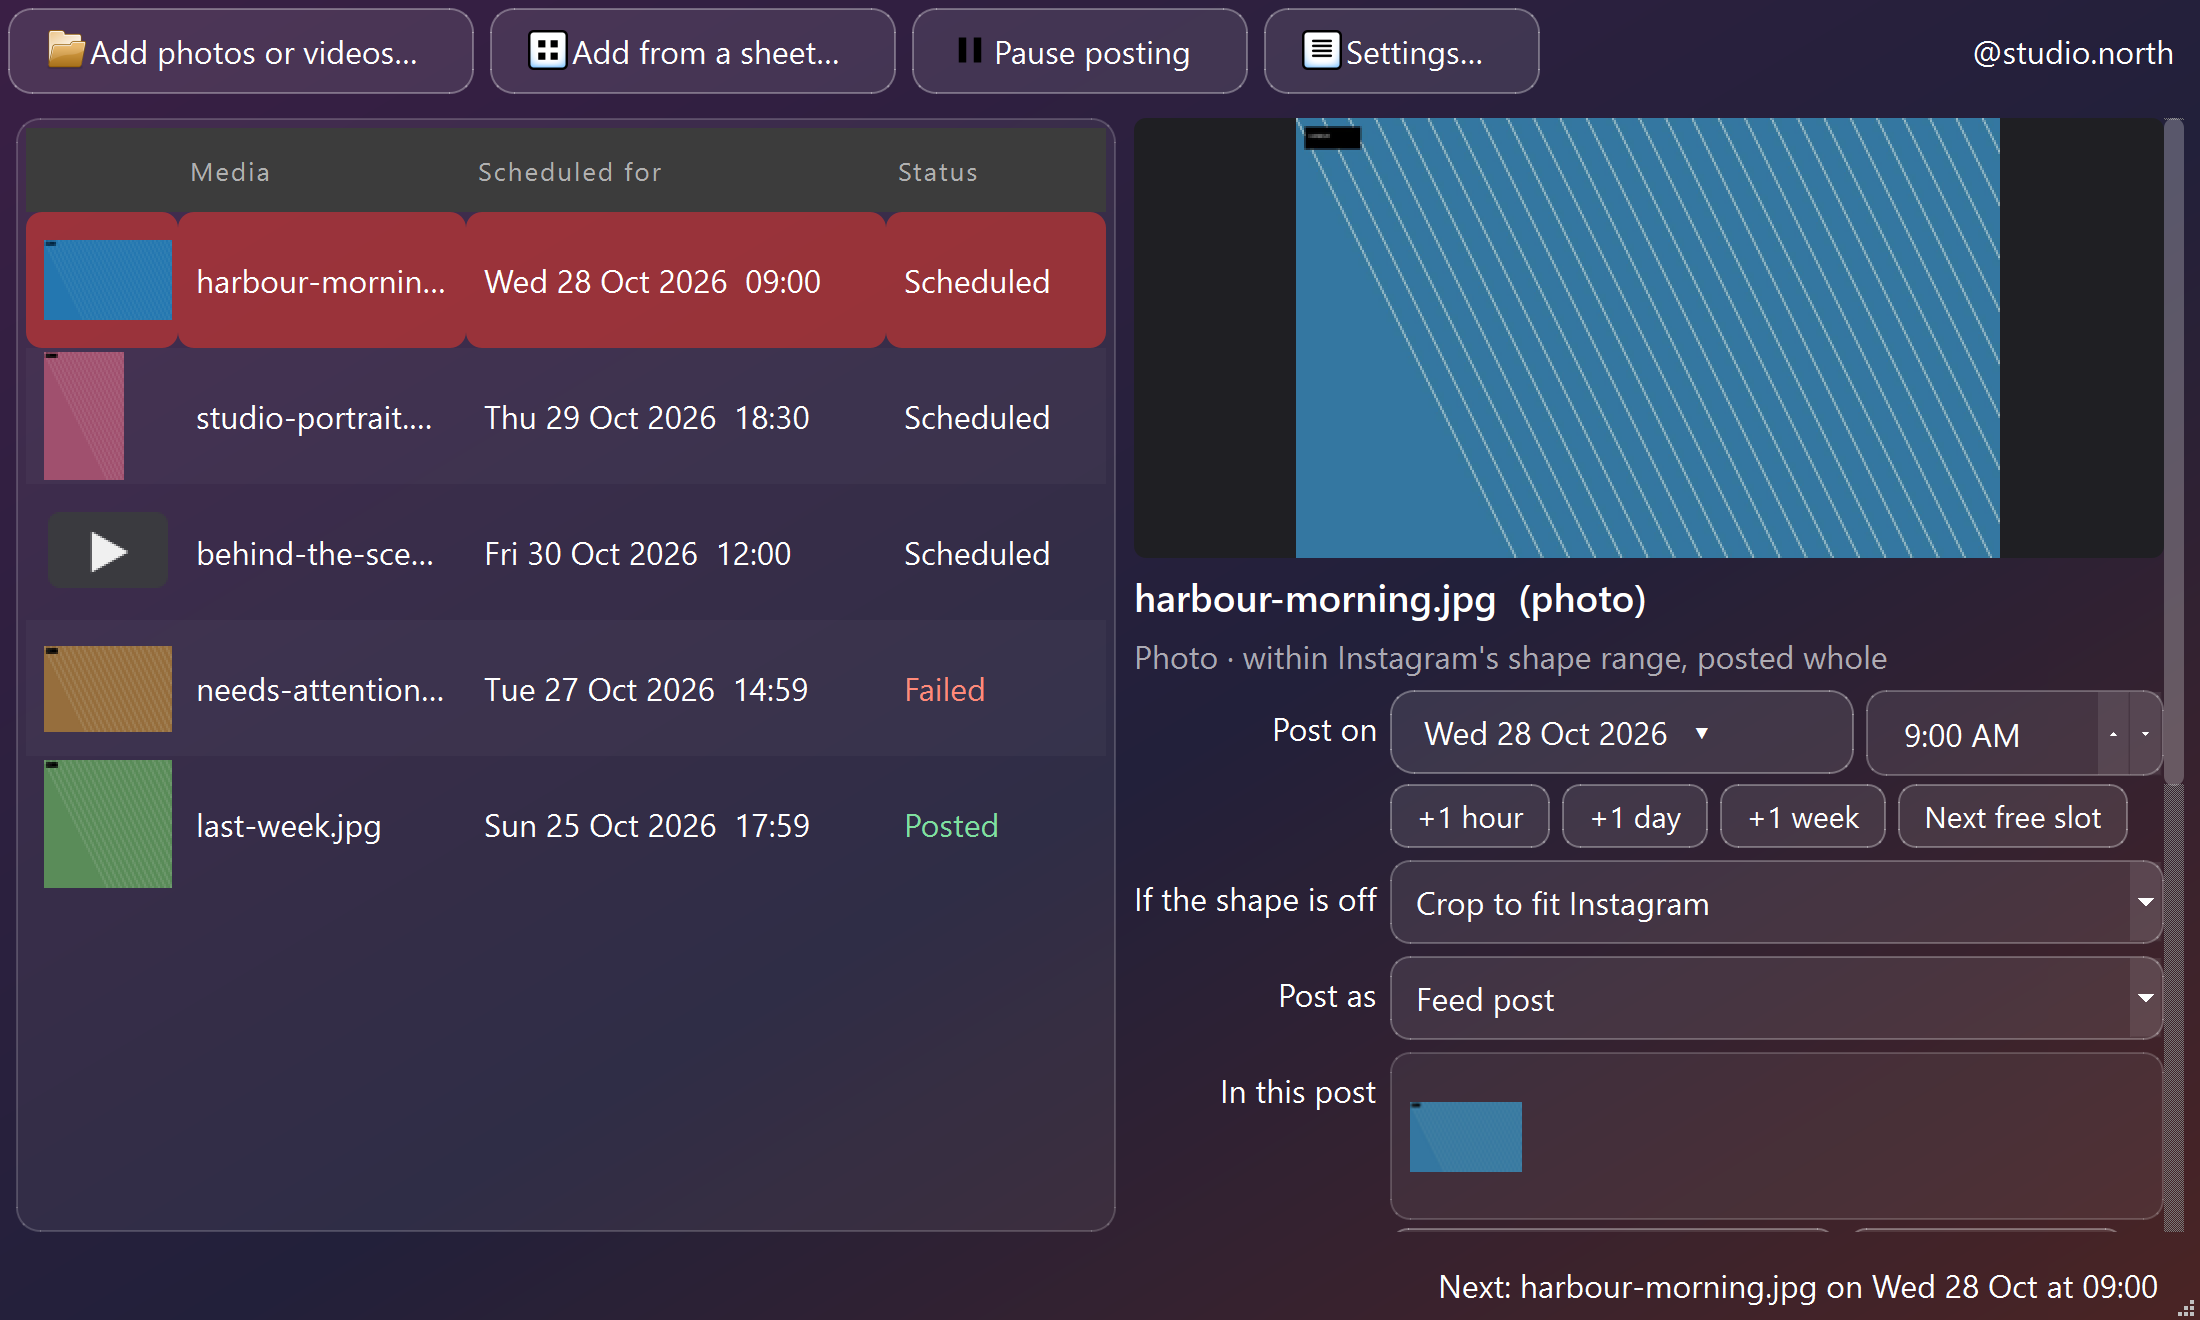
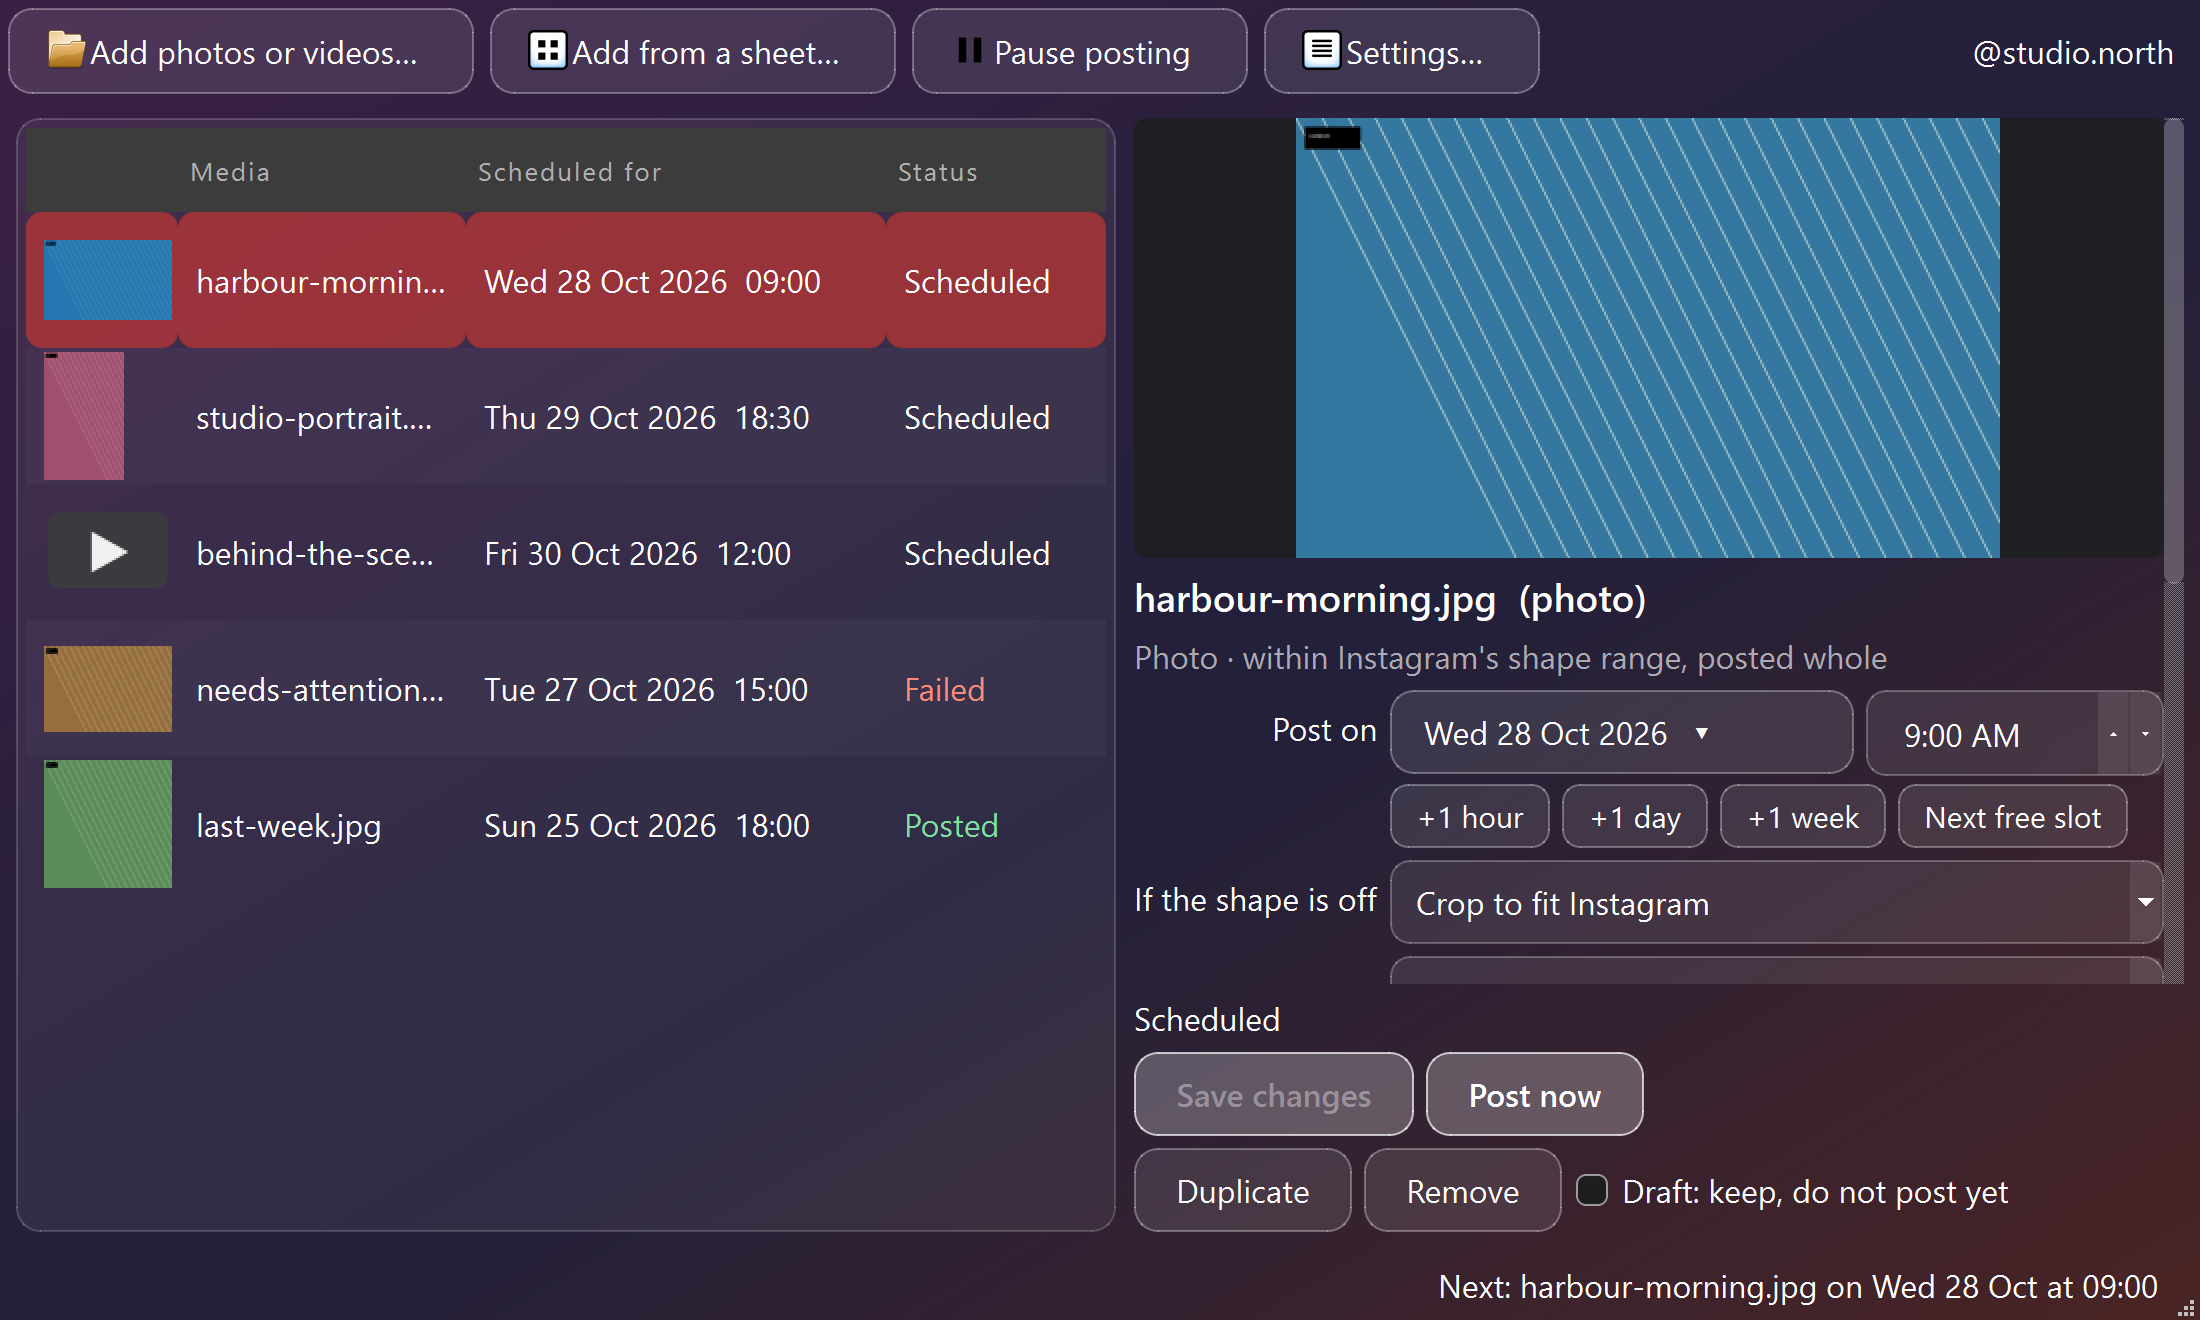
Keep the status line and buttons below the scrolling details pane

diff --git a/app.py b/app.py
@@ -903,8 +903,10 @@ class MainWindow(QMainWindow):
         self.cover_spin = QDoubleSpinBox(); self.cover_spin.setObjectName('cover'); self.cover_spin.setRange(0, 900); self.cover_spin.setDecimals(1); self.cover_spin.setSuffix(' s')
         self.cover_spin.setToolTip('Which moment of the video becomes its cover picture'); self.cover_spin.valueChanged.connect(self.mark_dirty)
         form.addRow('Cover at', self.cover_spin); self.cover_label = form.labelForField(self.cover_spin)
-        self.status_label = QLabel(''); self.status_label.setWordWrap(True); self.status_label.setTextInteractionFlags(Qt.TextSelectableByMouse); dl.addWidget(self.status_label)
-        buttons = QHBoxLayout(); dl.addLayout(buttons)
+        # The status line and the buttons stay visible below the scrolling form
+        self.actions = QWidget(); self.actions.setObjectName('actions'); al = QVBoxLayout(self.actions); al.setContentsMargins(4, 6, 0, 0); al.setSpacing(6)
+        self.status_label = QLabel(''); self.status_label.setWordWrap(True); self.status_label.setTextInteractionFlags(Qt.TextSelectableByMouse); al.addWidget(self.status_label)
+        buttons = QHBoxLayout(); al.addLayout(buttons)
         self.save_button = QPushButton('Save changes'); self.save_button.setObjectName('save'); self.save_button.setShortcut(QKeySequence.Save); self.save_button.clicked.connect(self.save_current)
         self.post_now_button = QPushButton('Post now'); self.post_now_button.setObjectName('post_now'); self.post_now_button.clicked.connect(self.post_now)
         self.open_button = QPushButton('Open on Instagram'); self.open_button.clicked.connect(self.open_permalink)
@@ -912,14 +914,15 @@ class MainWindow(QMainWindow):
         self.remove_button = QPushButton('Remove'); self.remove_button.setObjectName('remove'); self.remove_button.clicked.connect(self.remove_selected)
         for b in (self.save_button, self.post_now_button, self.open_button): buttons.addWidget(b)
         buttons.addStretch(1)
-        more = QHBoxLayout(); dl.addLayout(more)
+        more = QHBoxLayout(); al.addLayout(more)
         self.draft_box = QCheckBox('Draft: keep, do not post yet'); self.draft_box.setObjectName('draft'); self.draft_box.toggled.connect(self.mark_dirty)
         for b in (self.duplicate_button, self.remove_button): more.addWidget(b)
         more.addWidget(self.draft_box); more.addStretch(1)
-        self.detail.setMinimumWidth(380); left.setMinimumWidth(360)
+        dl.addStretch(1); self.detail.setMinimumWidth(380); left.setMinimumWidth(360)
         scroll = QScrollArea(); scroll.setWidgetResizable(True); scroll.setFrameShape(QFrame.NoFrame); scroll.setWidget(self.detail); scroll.setObjectName('detail_scroll')
         scroll.setHorizontalScrollBarPolicy(Qt.ScrollBarAlwaysOff); scroll.setMinimumWidth(400)
-        split.addWidget(scroll); split.setStretchFactor(0, 1); split.setStretchFactor(1, 1); split.setSizes([540, 520])
+        right = QWidget(); rl = QVBoxLayout(right); rl.setContentsMargins(0, 0, 0, 0); rl.setSpacing(0); rl.addWidget(scroll, 1); rl.addWidget(self.actions)
+        split.addWidget(right); split.setStretchFactor(0, 1); split.setStretchFactor(1, 1); split.setSizes([540, 520])
         self.setCentralWidget(central)
 
         self.progress = QProgressBar(); self.progress.setRange(0, 100); self.progress.setFixedWidth(160); self.progress.hide()
